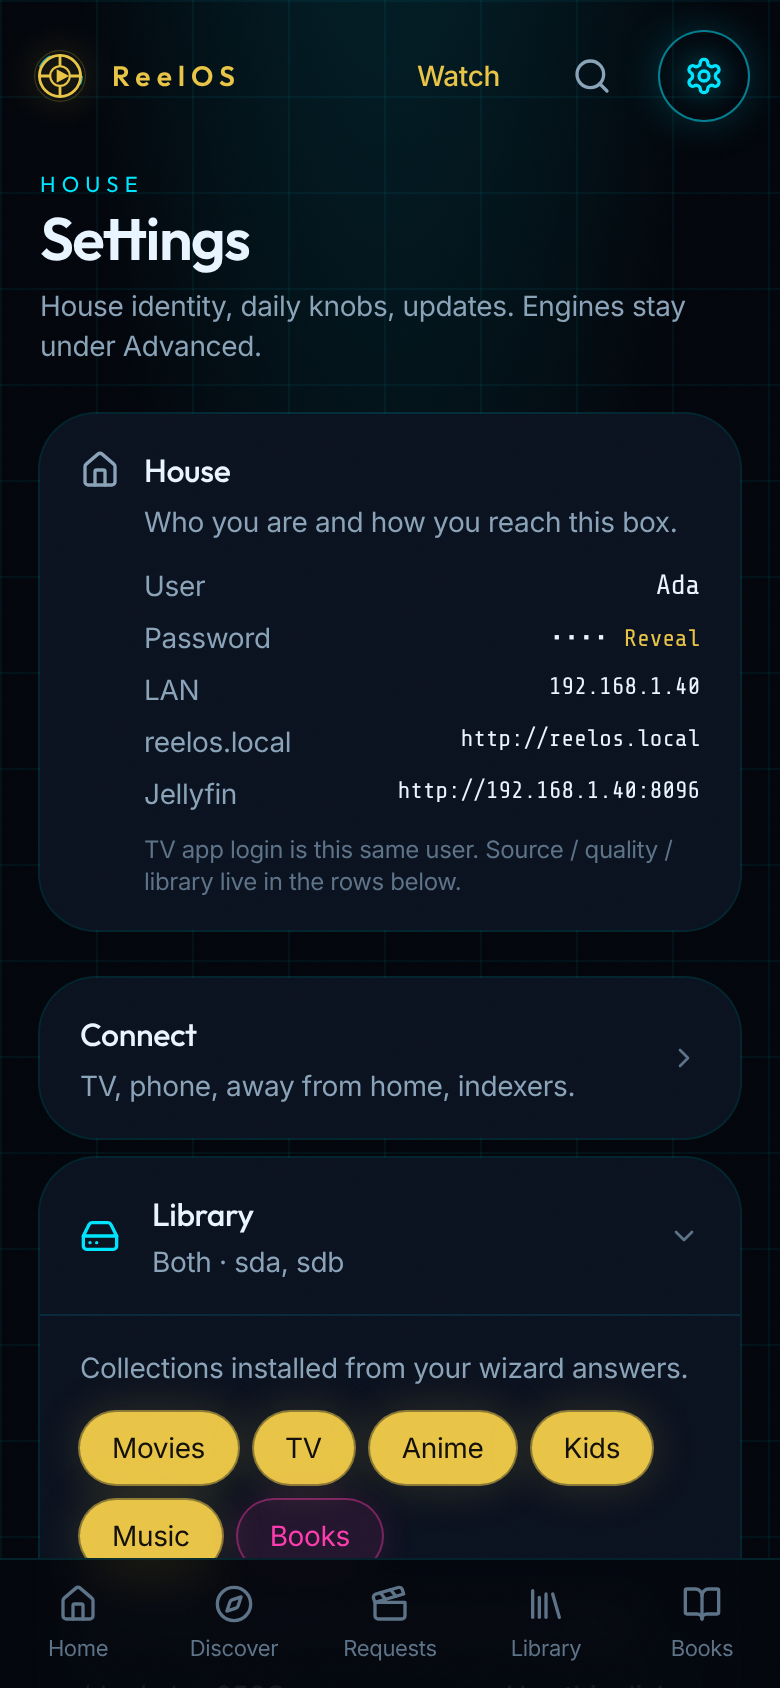
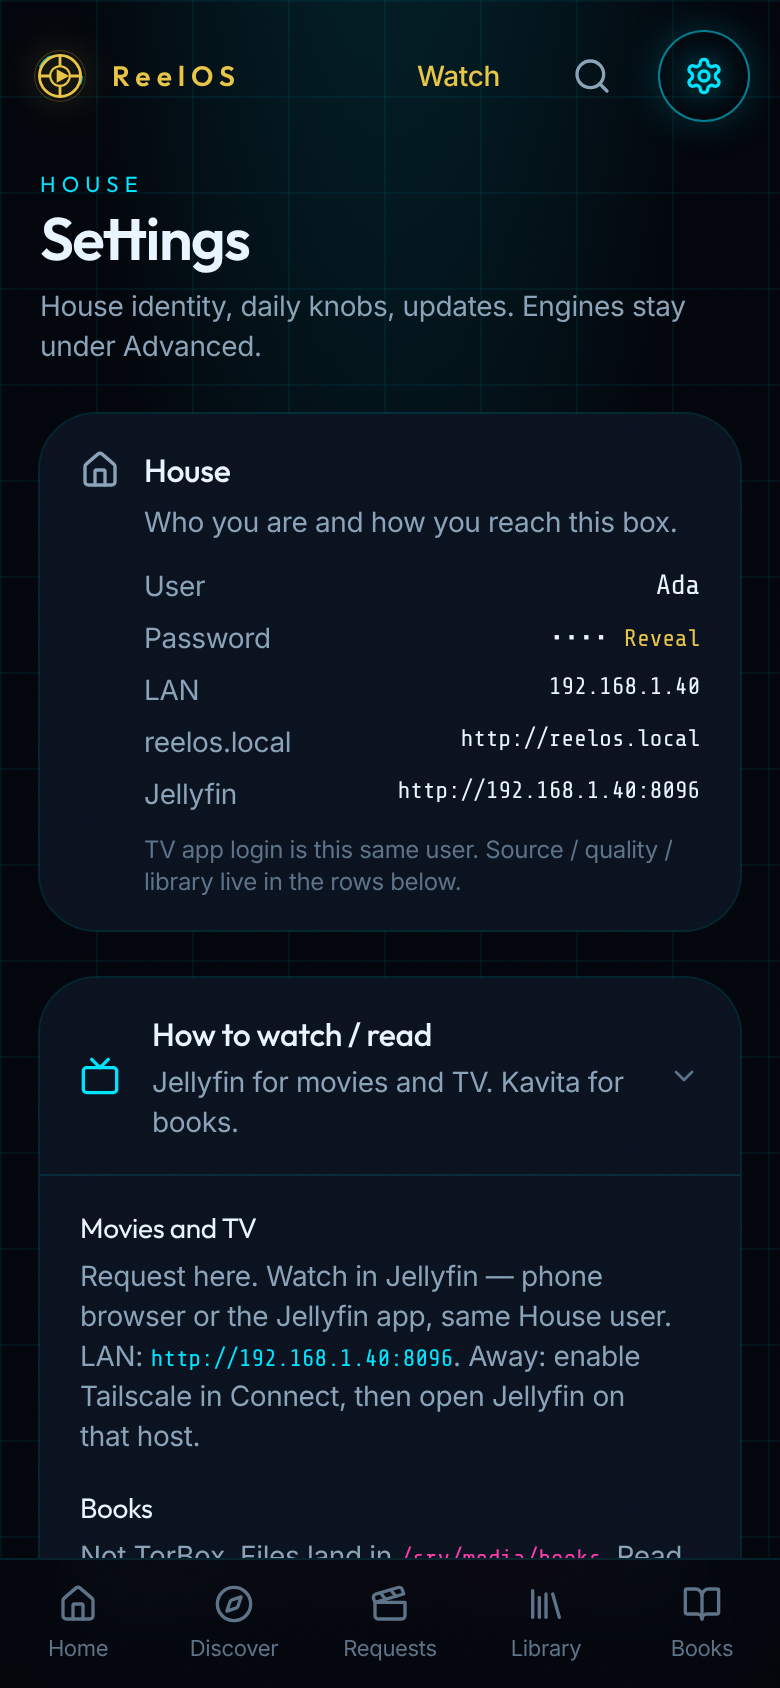
feat: Settings How to watch / read for Jellyfin and Kavita
Short help accordion: movies/TV in Jellyfin (LAN or Tailscale), books
in Kavita on :5000 / /kavita — not TorBox. No Connect QR clutter.

diff --git a/src/components/settings-accordions.tsx b/src/components/settings-accordions.tsx
@@ -1,4 +1,4 @@
-import { useState } from "react";
+import { useEffect, useState } from "react";
 import { Button } from "@/components/ui/button";
 import { HOSTNAME } from "@/lib/catalog";
 import {
@@ -155,6 +155,86 @@ export function AccessPanel({ lan }: { lan: string }) {
       </p>
       <p className="mt-2 text-sm text-muted">Watching: {frontendLabel[answers.frontend]}</p>
     </>
+  );
+}
+
+export function WatchReadPanel() {
+  const [box, setBox] = useState<{
+    ipv4?: string;
+    watch?: string;
+    tailscaleIp?: string | null;
+    tailscaleDns?: string | null;
+    tailscaleUp?: boolean;
+  }>({});
+  useEffect(() => {
+    void fetch("/api/box", { cache: "no-store" })
+      .then(
+        (r) =>
+          r.json() as Promise<{
+            ipv4?: string;
+            watch?: string;
+            tailscaleIp?: string | null;
+            tailscaleDns?: string | null;
+            tailscaleUp?: boolean;
+          }>,
+      )
+      .then((b) => setBox(b))
+      .catch(() => {});
+  }, []);
+
+  const lan = box.ipv4 || HOSTNAME;
+  const jellyfin = box.watch || `http://${lan}:8096`;
+  const kavita = `http://${lan}:5000`;
+  const away = box.tailscaleDns || box.tailscaleIp || null;
+  const awayJellyfin = away ? `http://${away}:8096` : null;
+  const awayKavita = away ? `http://${away}:5000` : null;
+
+  return (
+    <div className="space-y-4 text-sm text-muted">
+      <div>
+        <p className="font-display text-foreground">Movies and TV</p>
+        <p className="mt-1">
+          Request here. Watch in Jellyfin — phone browser or the Jellyfin app, same House user.
+          LAN:{" "}
+          <a href={jellyfin} target="_blank" rel="noreferrer" className="font-mono text-xs text-cyan">
+            {jellyfin}
+          </a>
+          {awayJellyfin ? (
+            <>
+              . Away (Tailscale / MagicDNS):{" "}
+              <a href={awayJellyfin} target="_blank" rel="noreferrer" className="font-mono text-xs text-gold">
+                {awayJellyfin}
+              </a>
+            </>
+          ) : (
+            <>
+              . Away: enable Tailscale in Connect, then open Jellyfin on that host.
+            </>
+          )}
+        </p>
+      </div>
+      <div>
+        <p className="font-display text-foreground">Books</p>
+        <p className="mt-1">
+          Not TorBox. Files land in{" "}
+          <span className="font-mono text-xs text-magenta">/srv/media/books</span>. Read in Kavita
+          on{" "}
+          <a href={kavita} target="_blank" rel="noreferrer" className="font-mono text-xs text-magenta">
+            {kavita}
+          </a>{" "}
+          or <span className="font-mono text-xs">/kavita</span>
+          {awayKavita ? (
+            <>
+              . Away:{" "}
+              <a href={awayKavita} target="_blank" rel="noreferrer" className="font-mono text-xs text-gold">
+                {awayKavita}
+              </a>
+            </>
+          ) : null}
+          .
+        </p>
+      </div>
+    </div>
   );
 }
 

diff --git a/src/components/settings-view.tsx b/src/components/settings-view.tsx
@@ -7,6 +7,7 @@ import {
   KeyRound,
   Shield,
   SlidersHorizontal,
+  Tv,
   Users,
 } from "lucide-react";
 import { Button } from "@/components/ui/button";
@@ -25,6 +26,7 @@ import {
   NotesPanel,
   QualityPanel,
   UsersPanel,
+  WatchReadPanel,
 } from "@/components/settings-accordions";
 import { PasswordRow, PerformanceRow, PwaRow } from "@/components/settings-panels";
 import { SourcePanel } from "@/components/settings-source";
@@ -62,6 +64,15 @@ export function SettingsView() {
       <HouseCard />
 
       <div className="mt-6 grid gap-2.5">
+        <Row
+          icon={Tv}
+          title="How to watch / read"
+          hint="Jellyfin for movies and TV. Kavita for books."
+          open={panel === "watch"}
+          onClick={() => setPanel(panel === "watch" ? null : "watch")}
+        >
+          <WatchReadPanel />
+        </Row>
         <Link
           to="/connect"
           className="card-glow flex items-center justify-between rounded-2xl bg-card px-5 py-4 shadow-[var(--shadow-border)]"

diff --git a/STATUS.md b/STATUS.md
@@ -33,6 +33,8 @@ Global tokens in `src/styles.css` (cyan / magenta / electric blue / neon-gold on
 
 Design dialect: chrome select (FilterChip) = cyan glow; commit CTAs stay gold. Books uses `--shadow-magenta`. Discover typeahead is the hit list (plus Books hop to `/books?q=`). Idle Seerr shelves stay visible while typing. Discover idle has no In progress chrome — that lives on Requests as Grabbing / Waiting / Ready. Ready = Watch, never Send to Arr.
 
+Settings → **How to watch / read**: Jellyfin on the phone (LAN or Tailscale/MagicDNS) for movies/TV; Kavita `:5000` / `/kavita` for books in `/srv/media/books`. Not TorBox. Connect still holds the QR clutter.
+
 ## Tests
 
 ```
